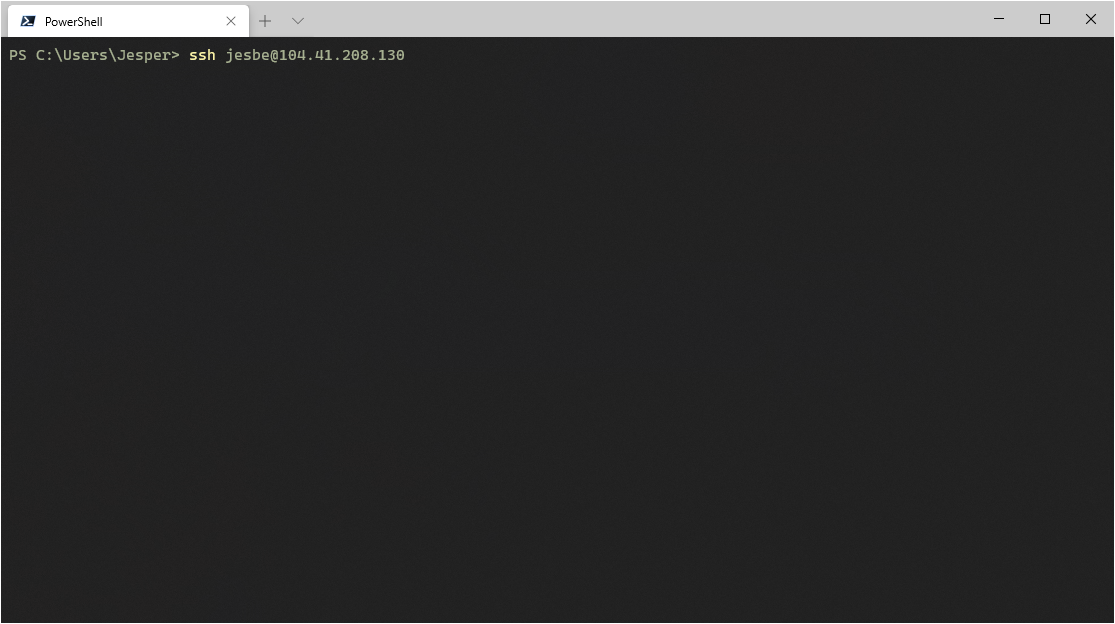
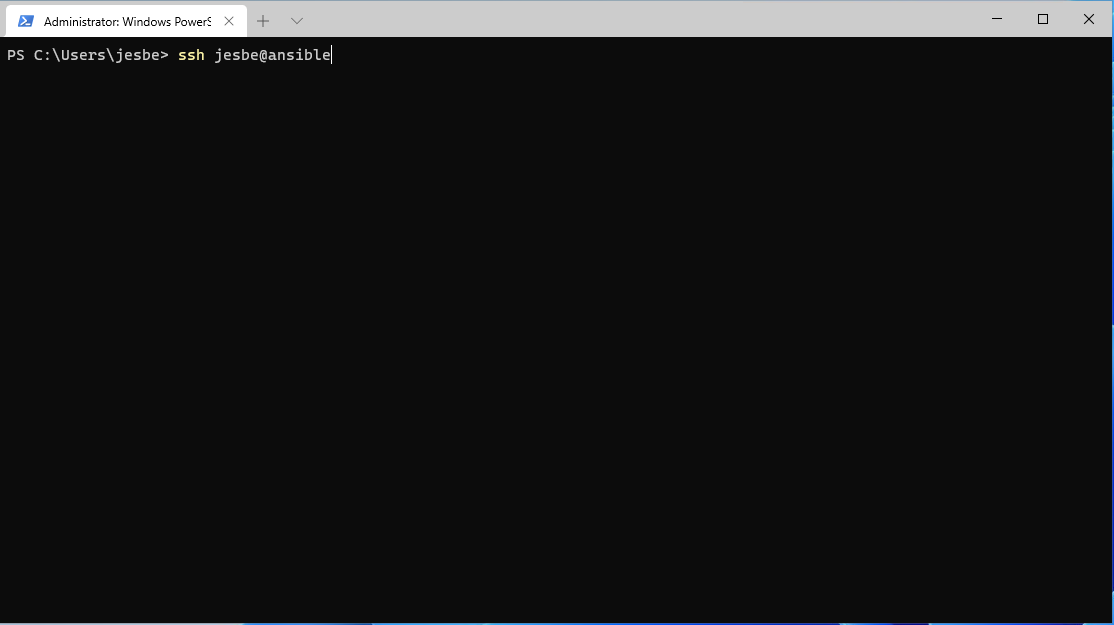
lab 1 updated to use student vm

Changed region(s): [[0.0, 0.9744, 1.0, 1.0], [0.0, 0.0, 0.3662, 0.1218], [0.9767, 0.0, 1.0, 0.0609]]

diff --git a/lab01/lab1.md b/lab01/lab1.md
@@ -45,7 +45,7 @@ Click "More choises" type your username/initials and password click __Ok__
 
 ![Alt text](pics/000_azure_portal_vm_mstsc_login.png?raw=true "mstsc login")
 
-Put a select the "Don't ask me again for connections to this computer and click __Yes__
+Select the "Don't ask me again for connections to this computer and click __Yes__
 
 ![Alt text](pics/000_azure_portal_vm_mstsc_login_yes.png?raw=true "mstsc login")
 
@@ -59,7 +59,15 @@ In the startmenu __Type__ "terminal" and click on __Windows Terminal__
 
 ![Alt text](pics/000_student_start_winterm.png?raw=true "Student start winterminal")
 
-In the Windows Terminal, Powershell or CMD write ssh __username@ansible-vm-ip__ hit enter
+In the Windows Terminal write ssh __username@ansible__ hit enter
+
+__Type:__
+
+```bash
+
+yes - to accept the fingerprint
+
+```
 
 ![Alt text](pics/000_azure_ssh.png?raw=true "ssh")
 
